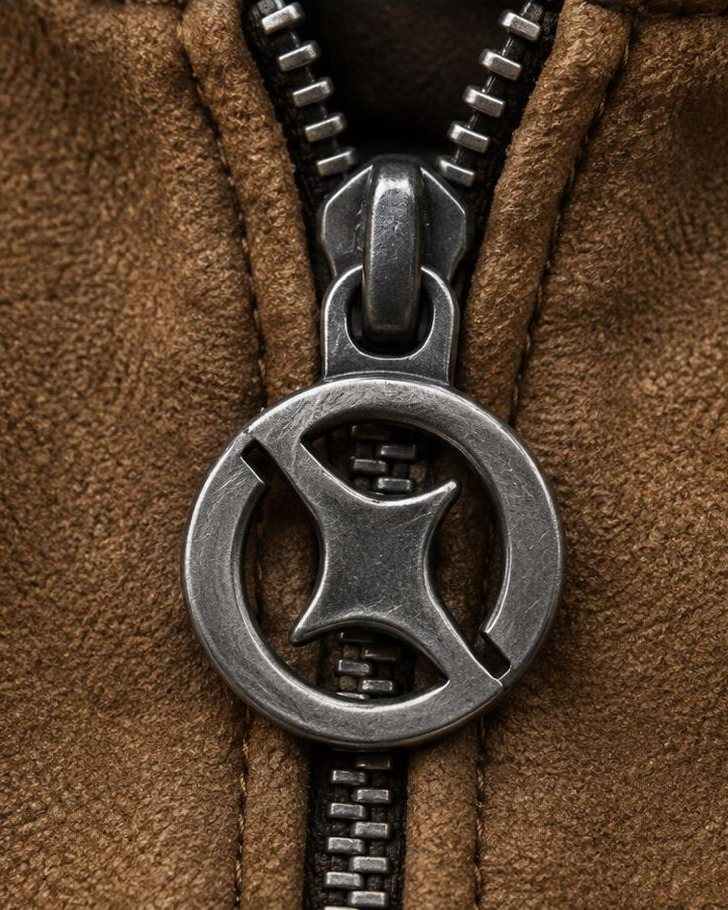
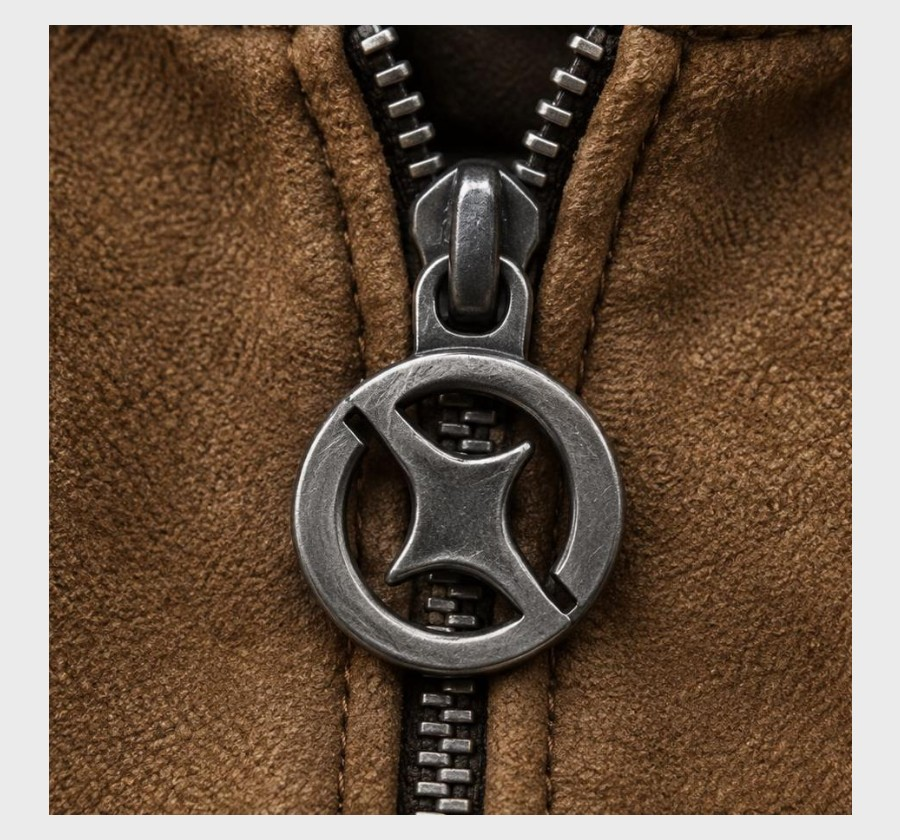
Flechas en las fotos de la ficha y detalles del tamano de la prenda
La foto de cada ficha lleva una flecha a cada lado para ir a la anterior y
a la siguiente, dando la vuelta al llegar al final. En el movil tambien se
pasa deslizando el dedo, y en el ordenador con las flechas del teclado.

Las fotos de detalle (cremallera, cuello y boton) se preparan con el mismo
lienzo que la foto de su prenda y recortadas justo al hueco que ocupa la
prenda, asi que salen del mismo tamano y en el mismo sitio al pasar de una
a otra.

diff --git a/prenda.html b/prenda.html
@@ -71,12 +71,31 @@ main{max-width:1060px;margin:0 auto;padding:clamp(18px,3vw,30px) clamp(16px,4vw,
     opacity:0;transition:opacity .45s ease;
 }
 .visor img.activa{opacity:1}
-/* las fotos de detalle llenan el recuadro; las pequeñas («entera» en
-   prendas.js) se ven completas sobre el gris y nunca más grandes que su
-   tamaño, para que no se emborronen */
-.visor img.detalle{object-fit:cover;padding:0}
-.visor img.detalle--entera{object-fit:scale-down;padding:5%}
 .visor:focus-visible{outline:2px solid var(--acento);outline-offset:4px}
+
+/* las flechas, encima de la foto, para pasar de una a otra sin bajar a los
+   botones. En el móvil también se pasan deslizando el dedo sobre la foto. */
+.marco{position:relative}
+.visor{touch-action:pan-y}
+.flecha{
+    position:absolute;top:50%;z-index:2;
+    display:flex;align-items:center;justify-content:center;
+    width:42px;height:42px;margin-top:-21px;padding:0;
+    border:1px solid rgba(14,14,16,.12);border-radius:50%;
+    background:rgba(255,255,255,.9);color:var(--tinta);cursor:pointer;
+    box-shadow:0 1px 6px rgba(14,14,16,.08);
+    transition:background .25s,border-color .25s,transform .2s;
+}
+.flecha--atras{left:12px}
+.flecha--alante{right:12px}
+.flecha:hover{background:#fff;border-color:var(--tinta)}
+.flecha:active{transform:scale(.93)}
+.flecha:focus-visible{outline:2px solid var(--acento);outline-offset:3px}
+@media(max-width:520px){
+    .flecha{width:38px;height:38px;margin-top:-19px}
+    .flecha--atras{left:8px}
+    .flecha--alante{right:8px}
+}
 
 .caras{display:flex;flex-wrap:wrap;justify-content:center;gap:8px;margin-top:12px}
 .caras button{
@@ -225,10 +244,14 @@ footer .pie-insta:hover{color:var(--acento)}
     <!-- Lo de dentro lo rellena ficha.js con los datos de prendas.js -->
     <div class="ficha" id="ficha" hidden>
         <div class="escaparate">
-            <button type="button" class="visor" id="visor" aria-label="Girar la prenda">
-                <img class="foto activa" id="foto-delante" src="" alt="">
-                <img class="foto" id="foto-detras" src="" alt="">
-            </button>
+            <div class="marco">
+                <button type="button" class="visor" id="visor" aria-label="Girar la prenda">
+                    <img class="foto activa" id="foto-delante" src="" alt="">
+                    <img class="foto" id="foto-detras" src="" alt="">
+                </button>
+                <button type="button" class="flecha flecha--atras" id="anterior" aria-label="Foto anterior"><svg viewBox="0 0 24 24" width="16" height="16" aria-hidden="true" focusable="false"><path d="M15 5l-7 7 7 7" fill="none" stroke="currentColor" stroke-width="1.8" stroke-linecap="round" stroke-linejoin="round"/></svg></button>
+                <button type="button" class="flecha flecha--alante" id="siguiente" aria-label="Foto siguiente"><svg viewBox="0 0 24 24" width="16" height="16" aria-hidden="true" focusable="false"><path d="M9 5l7 7-7 7" fill="none" stroke="currentColor" stroke-width="1.8" stroke-linecap="round" stroke-linejoin="round"/></svg></button>
+            </div>
             <div class="caras" id="caras">
                 <button type="button" data-cara="delante" aria-pressed="true">Delante</button>
                 <button type="button" data-cara="detras" aria-pressed="false">Detrás</button>

diff --git a/ficha.js b/ficha.js
@@ -40,7 +40,7 @@
     ];
     (p.detalles || []).forEach(function (d, i) {
         var img = document.createElement('img');
-        img.className = 'foto detalle' + (d.entera ? ' detalle--entera' : '');
+        img.className = 'foto detalle';   // se pinta igual que las de la prenda
         img.src = d.src; img.alt = d.alt || '';
         img.decoding = 'async';
         visor.appendChild(img);
@@ -65,7 +65,37 @@
         visor.setAttribute('aria-label',
             titulo + ', ' + vistas[i].dice + '. Pulsa para ver la siguiente foto.');
     }
-    visor.addEventListener('click', function () { pinta((actual + 1) % vistas.length); });
+    function mueve(paso) { pinta((actual + paso + vistas.length) % vistas.length); }
+
+    // las flechas de encima de la foto
+    $('anterior').addEventListener('click', function () { mueve(-1); });
+    $('siguiente').addEventListener('click', function () { mueve(1); });
+
+    // con el teclado, las flechas izquierda y derecha mientras el foco está en la foto
+    visor.parentNode.addEventListener('keydown', function (e) {
+        if (e.key === 'ArrowLeft')  { e.preventDefault(); mueve(-1); }
+        if (e.key === 'ArrowRight') { e.preventDefault(); mueve(1); }
+    });
+
+    // y con el dedo: deslizar sobre la foto pasa a la siguiente o a la anterior
+    var inicio = null, deslizo = false;
+    visor.addEventListener('pointerdown', function (e) {
+        if (e.pointerType === 'touch') inicio = { x: e.clientX, y: e.clientY };
+    });
+    visor.addEventListener('pointerup', function (e) {
+        if (!inicio) return;
+        var dx = e.clientX - inicio.x, dy = e.clientY - inicio.y;
+        inicio = null;
+        if (Math.abs(dx) > 40 && Math.abs(dx) > Math.abs(dy) * 1.5) {
+            deslizo = true;                       // que el toque no cuente además como clic
+            setTimeout(function () { deslizo = false; }, 350);
+            mueve(dx < 0 ? 1 : -1);
+        }
+    });
+    visor.addEventListener('pointercancel', function () { inicio = null; });
+
+    // pulsar la foto pasa a la siguiente
+    visor.addEventListener('click', function () { if (!deslizo) mueve(1); });
     Array.prototype.forEach.call(caras.querySelectorAll('button'), function (b) {
         b.addEventListener('click', function () {
             for (var k = 0; k < vistas.length; k++) {

diff --git a/prendas.js b/prendas.js
@@ -12,9 +12,9 @@
 
    detalles (opcional): fotos de cerca que salen en la ficha después de
    Delante y Detrás. Cada una lleva su botón con el texto de «nombre».
-   Con «entera: true» la foto se enseña completa sobre el gris, sin
-   ampliarla más de su tamaño, para las que son pequeñas; sin ella llena el
-   recuadro, que es como deben ir las que ya vienen recortadas en 4:5.
+   Se preparan con el mismo lienzo que la foto de su prenda y con la foto
+   recortada justo al hueco que ocupa la prenda, sobre el mismo gris
+   (#ebebeb): así en la ficha salen del mismo tamaño y en el mismo sitio.
 
    Si abres una talla nueva, acuérdate de añadirla también a TALLAS en
    api/reserva.js: esa lista es la que manda de verdad.
@@ -79,9 +79,9 @@ window.PRENDAS = [
         altDelante: 'Camisa de NOVA Supply Clothing, de manga corta gris con el emblema en el pecho',
         altDetras:  'Camisa de NOVA Supply Clothing, de manga corta gris con NOVA en grande en la espalda',
         detalles: [
-            { src: 'd2-camisa-cuello.jpg', nombre: 'Cuello', entera: true,
+            { src: 'd2-camisa-cuello.jpg', nombre: 'Cuello',
               alt: 'Cuello y tapeta de la camisa de cuadro gris, con los botones metálicos del monograma' },
-            { src: 'd2-camisa-boton.jpg', nombre: 'Botón', entera: true,
+            { src: 'd2-camisa-boton.jpg', nombre: 'Botón',
               alt: 'Botón metálico de la camisa con el monograma de NOVA, de cerca' }
         ],
         texto: 'Camisa de manga corta en cuadro fino, corte holgado y botón metálico personalizado con el monograma de la marca. Emblema al pecho y NOVA en grande a la espalda.'
